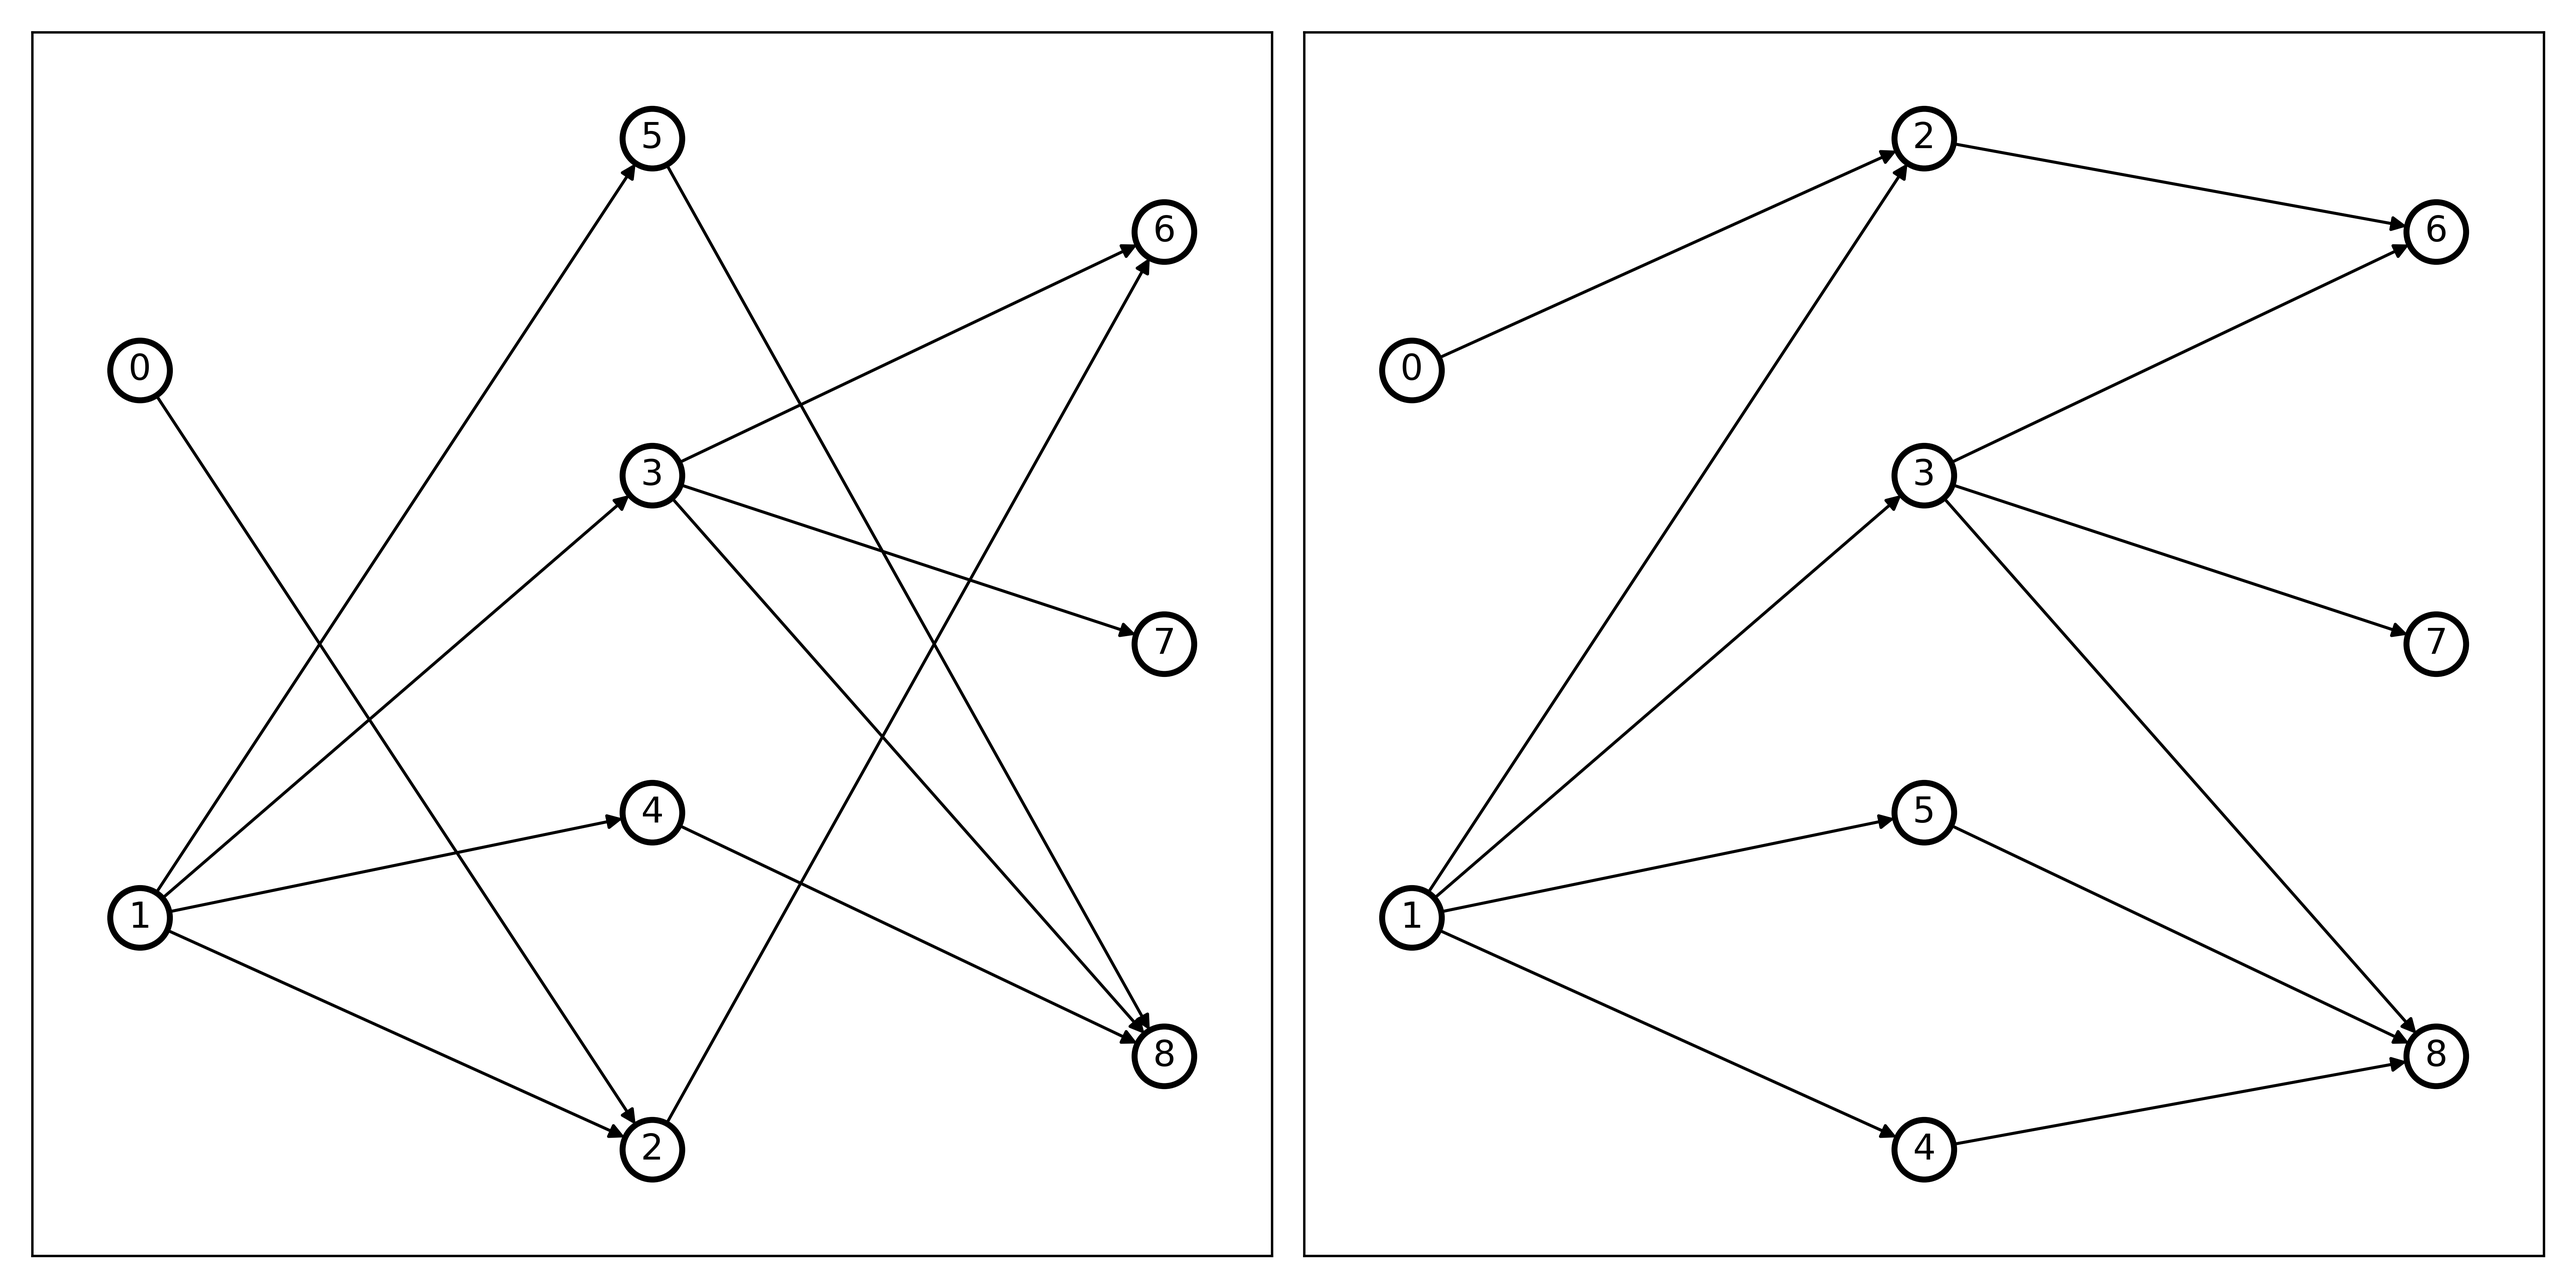
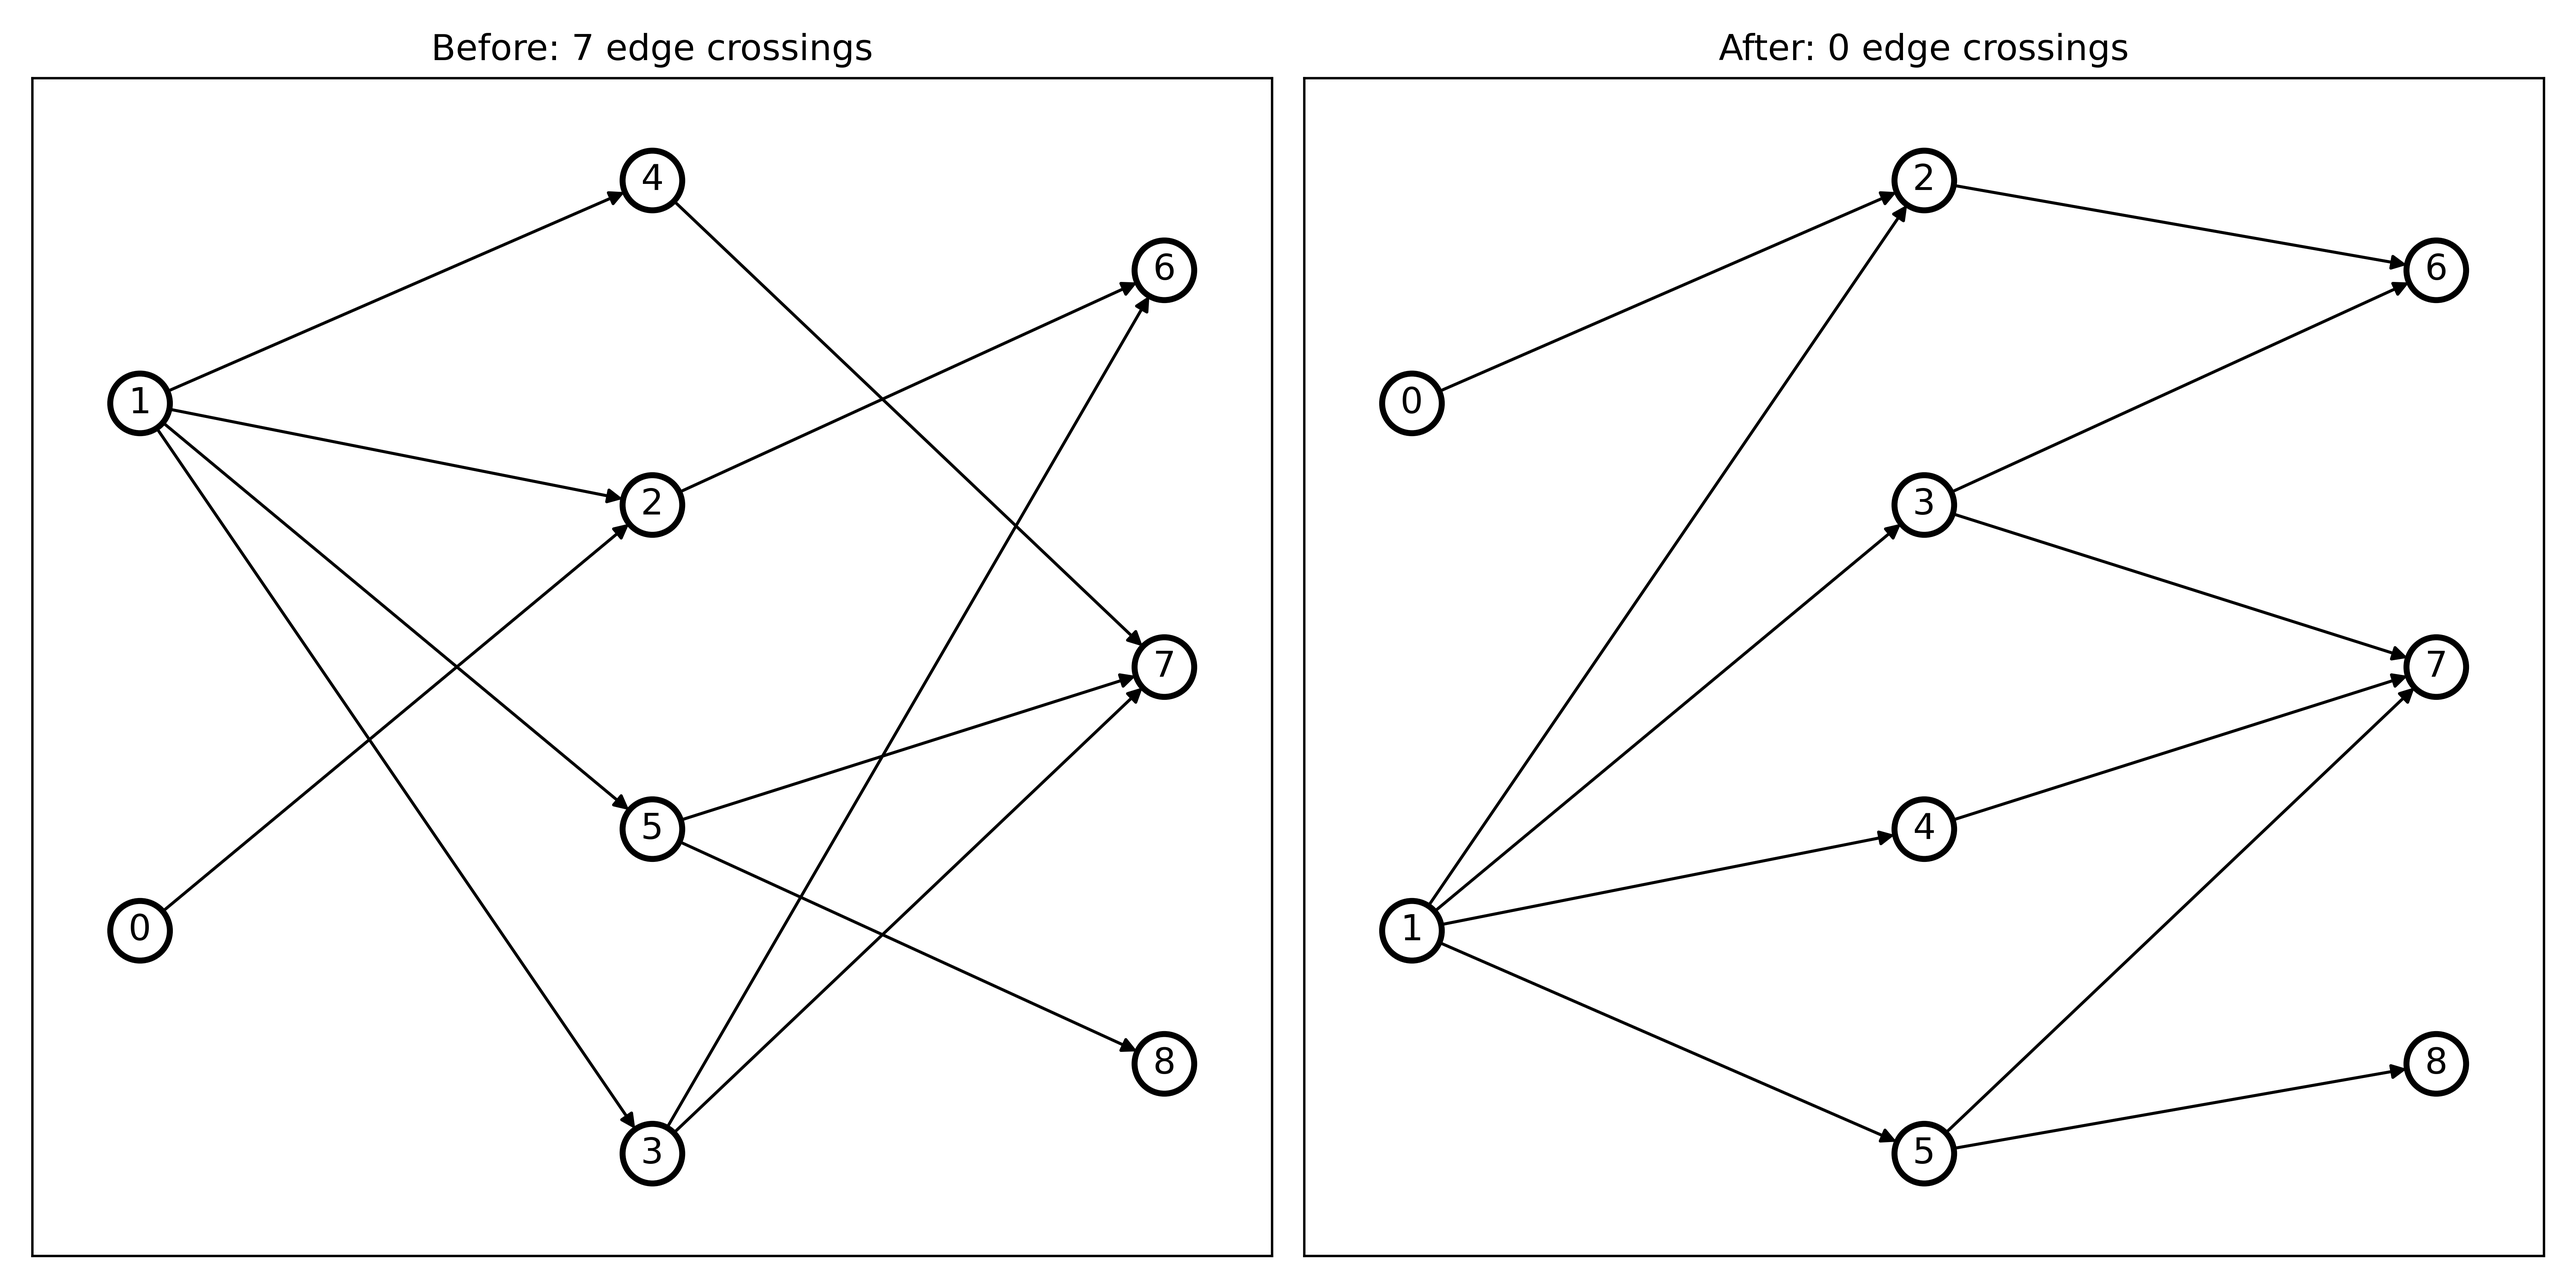
Add hierarchy example and crossing counts

diff --git a/docs/draw_graphs.py b/docs/draw_graphs.py
@@ -1,9 +1,13 @@
+from collections import defaultdict
 from pathlib import Path
+from re import L
 from typing import TypeVar
-from untanglers import LayoutOptimizerInt, generate_multipartite_graph
+from untanglers import HierarchyOptimizerInt, LayoutOptimizerInt, generate_multipartite_graph
 
 import networkx as nx
 import matplotlib.pyplot as plt
+
+from numpy import indices
 
 T = TypeVar("T")
 
@@ -22,6 +26,21 @@ def nodes_to_pos(nodes: list[list[T]]) -> dict[T, tuple[float, float]]:
       pos[n] = (i, (j - offset) * (max_len / len(ns))**0.7)
 
   return pos
+
+
+def draw_networkx(graph, pos, **kwargs):
+  if "node_shape" in kwargs and isinstance(kwargs["node_shape"], list):
+    shapes = defaultdict(list)
+    colors = kwargs["node_color"]
+    for i, shape in enumerate(kwargs["node_shape"]):
+      shapes[shape].append(i)
+    for shape, indices in shapes.items():
+      nodes = [list(graph.nodes)[i] for i in indices]
+      kwargs["node_color"] = [colors[i] for i in indices]
+      kwargs["node_shape"] = shape
+      draw_networkx(graph, pos, nodelist=nodes, **kwargs)
+  else:
+    nx.draw_networkx(graph, pos, **kwargs)
 
 
 def draw_example(nodes, edges, optimize, extra_styles = None):
@@ -44,10 +63,12 @@ def draw_example(nodes, edges, optimize, extra_styles = None):
   if extra_styles is not None:
     styles.update(extra_styles)
 
-  nx.draw_networkx(graph, nodes_to_pos(nodes), ax=axs[0], **styles)
+  draw_networkx(graph, nodes_to_pos(nodes), ax=axs[0], **styles)
+  nodes, before, after = optimize()
+  axs[0].set_title(f"Before: {before} edge crossings")
 
-  nodes = optimize()
-  nx.draw_networkx(graph, nodes_to_pos(nodes), ax=axs[1], **styles)
+  draw_networkx(graph, nodes_to_pos(nodes), ax=axs[1], **styles)
+  axs[1].set_title(f"After: {after} edge crossings")
 
   [ax.invert_yaxis() for ax in axs]
 
@@ -62,8 +83,9 @@ def draw_basic_example():
 
   def optimize():
     opt = LayoutOptimizerInt(nodes, edges)
+    before = opt.count_crossings()
     opt.optimize(1, 1e-3, 2, 20, 2)
-    return opt.get_nodes()
+    return opt.get_nodes(), before, opt.count_crossings()
   
   fig = draw_example(nodes, edges, optimize)
 
@@ -74,13 +96,13 @@ def draw_complex_example():
 
   def optimize():
     opt = LayoutOptimizerInt(nodes, edges)
+    before = opt.count_crossings()
     opt.optimize(10, 0.1, 5, 2000, 10)
-    return opt.get_nodes()
+    return opt.get_nodes(), before, opt.count_crossings()
   
   styles = {
     "node_size": 50,
     "font_size": 3,
-    # "with_labels": False,
     "linewidths": 1,
   }
   fig = draw_example(nodes, edges, optimize, styles)
@@ -88,6 +110,47 @@ def draw_complex_example():
   fig.savefig(str(images / "complex.png"), dpi=600)
 
 
+def draw_hierarchy_example():
+  nodes, edges = generate_multipartite_graph([20, 40, 30, 35, 10])
+  hierarchy = [
+    [[4,5,6,5], [9, 11]],
+    [[7, 20, 13], [27, 13]],
+    [[8, 9, 6, 7], [17, 13]],
+    [[8, 5, 9, 6, 7], [13, 15, 7]],
+    [[5,5], [10]],
+  ]
+
+  colors = []
+  for layer in hierarchy:
+    for i, group in enumerate(layer[0]):
+      colors += [f"C{i}"] * group
+
+  shapes = []
+  for layer in hierarchy:
+    for i, group in enumerate(layer[1]):
+      shapes += ["o^s"[i]] * group
+
+  def optimize():
+    opt = HierarchyOptimizerInt(nodes, edges, hierarchy)
+    before = opt.count_crossings()
+    opt.optimize(100, 0.1, 5, 1000, 20)
+    return opt.get_nodes(), before, opt.count_crossings()
+  
+  styles = {
+    "node_size": 50,
+    "font_size": 3,
+    "linewidths": 1,
+    "node_color": colors,
+    "node_shape": shapes,
+    "edgecolors": None
+  }
+  fig = draw_example(nodes, edges, optimize, styles)
+
+  fig.savefig(str(images / "hierarchy.png"), dpi=600)
+
+
 if __name__ == "__main__":
   draw_basic_example()
   draw_complex_example()
+
+  draw_hierarchy_example()
